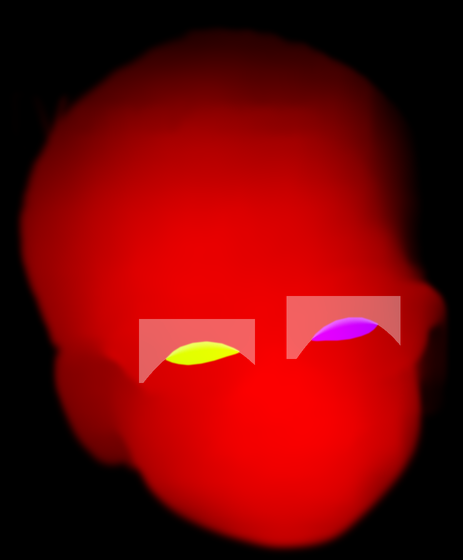
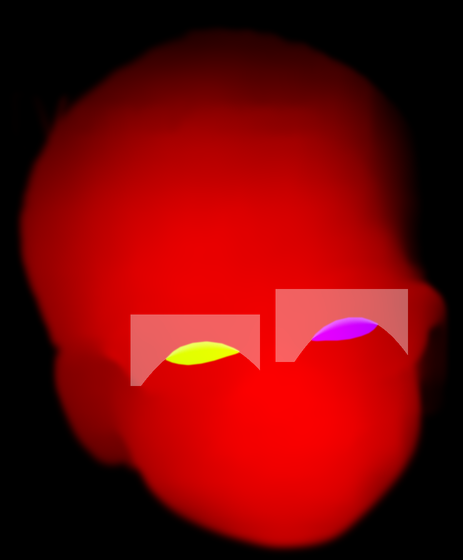
Live portrait: true-size irises and a seamless hand-over from the photo
The landmarker's iris circles were ~12% small and 3-4px off centre, so
the rebuilt eyes looked smaller than the photo's and visibly changed when
the live portrait took over. eyes.py now fits the real limbus (dark iris
to white along rays through the visible sides) and rebuilds the eye
layers from that.

The hand-over itself: the <img> loads the exact file the canvas draws
(unoptimized, so not re-encoded); textures are mipmapped under WebGL 2 so
the downscale matches; the 0.35s crossfade is gone (it blurred two
frames together); and while the eyes are in their original pose the
shader shows the photo's own eye pixels, handing over to the movable
iris within the first saccade. At the swap the live frame now differs
from the photo by about 1/255 on average, sub-pixel resampling only.

Claude-Session: https://claude.ai/code/session_011JZeWZhxMNci4YbX9DFC3o

Changed region(s): [[0.2721, 0.5161, 0.9071, 0.6982]]

diff --git a/src/app/components/portrait/live-portrait.js b/src/app/components/portrait/live-portrait.js
@@ -50,6 +50,8 @@ uniform sampler2D uBase;
 uniform sampler2D uAux;
 uniform sampler2D uIris;
 uniform sampler2D uLids;
+uniform sampler2D uPhoto;
+uniform float uRest[2];
 uniform vec2 uSize;
 uniform vec2 uHead;
 uniform vec2 uLight;
@@ -165,6 +167,12 @@ void main() {
     }
   }
 
+  // At rest the eyes are the photo's own, real iris edge and catchlight
+  // and all; the rebuilt eye takes over as soon as they move.
+  vec4 aux0 = texture2D(uAux, q / uSize);
+  float rest = aux0.g * uRest[0] + aux0.b * uRest[1];
+  if (rest > 0.0) col = mix(col, texture2D(uPhoto, q / uSize), rest);
+
   // Light: the face's own shading shifts as it turns, using the depth
   // map's slope as the surface direction. At rest this is exactly 1.
   vec2 e = 3.0 / uSize;
@@ -179,11 +187,15 @@ void main() {
   gl_FragColor = col;
 }`;
 
+/** The first-paint photo; the <img> must load this exact file, unresized. */
+export const PHOTO_SRC = "/portrait/photo.webp";
+
 const SRC = {
   base: "/portrait/base.webp",
   aux: "/portrait/aux.png",
   iris: "/portrait/iris.png",
   lids: "/portrait/lids.png",
+  photo: PHOTO_SRC,
 };
 
 const HEAD_PX = [15, 9]; // how far the nearest point travels, image pixels
@@ -219,7 +231,12 @@ function texture(gl, unit, img, data = false) {
   gl.pixelStorei(gl.UNPACK_PREMULTIPLY_ALPHA_WEBGL, !data);
   gl.pixelStorei(gl.UNPACK_COLORSPACE_CONVERSION_WEBGL, data ? gl.NONE : gl.BROWSER_DEFAULT_WEBGL);
   gl.texImage2D(gl.TEXTURE_2D, 0, gl.RGBA, gl.RGBA, gl.UNSIGNED_BYTE, img);
-  gl.texParameteri(gl.TEXTURE_2D, gl.TEXTURE_MIN_FILTER, gl.LINEAR);
+  // The portrait is drawn smaller than its texture; with mipmaps it is
+  // filtered the way the browser scales the <img> it replaces, so the swap
+  // does not change its sharpness. (WebGL 1 can't mipmap these sizes.)
+  const mip = !data && typeof WebGL2RenderingContext !== "undefined" && gl instanceof WebGL2RenderingContext;
+  if (mip) gl.generateMipmap(gl.TEXTURE_2D);
+  gl.texParameteri(gl.TEXTURE_2D, gl.TEXTURE_MIN_FILTER, mip ? gl.LINEAR_MIPMAP_LINEAR : gl.LINEAR);
   gl.texParameteri(gl.TEXTURE_2D, gl.TEXTURE_MAG_FILTER, gl.LINEAR);
   gl.texParameteri(gl.TEXTURE_2D, gl.TEXTURE_WRAP_S, gl.CLAMP_TO_EDGE);
   gl.texParameteri(gl.TEXTURE_2D, gl.TEXTURE_WRAP_T, gl.CLAMP_TO_EDGE);
@@ -235,7 +252,8 @@ export default function LivePortrait({ onReady, onHead, api, className = "" }) {
     const canvas = ref.current;
     if (!canvas) return;
     if (window.matchMedia("(prefers-reduced-motion: reduce)").matches) return;
-    const gl = canvas.getContext("webgl", { premultipliedAlpha: true, alpha: true, antialias: false });
+    const opts = { premultipliedAlpha: true, alpha: true, antialias: false };
+    const gl = canvas.getContext("webgl2", opts) || canvas.getContext("webgl", opts);
     if (!gl) return;
 
     let raf = 0;
@@ -246,7 +264,7 @@ export default function LivePortrait({ onReady, onHead, api, className = "" }) {
     const start = async () => {
       let imgs;
       try {
-        imgs = await Promise.all([loadImage(SRC.base), loadImage(SRC.aux), loadImage(SRC.iris), loadImage(SRC.lids)]);
+        imgs = await Promise.all([SRC.base, SRC.aux, SRC.iris, SRC.lids, SRC.photo].map(loadImage));
       } catch {
         return;
       }
@@ -272,7 +290,7 @@ export default function LivePortrait({ onReady, onHead, api, className = "" }) {
       gl.enableVertexAttribArray(loc);
       gl.vertexAttribPointer(loc, 2, gl.FLOAT, false, 0, 0);
 
-      ["uBase", "uAux", "uIris", "uLids"].forEach((name, i) => {
+      ["uBase", "uAux", "uIris", "uLids", "uPhoto"].forEach((name, i) => {
         texture(gl, i, imgs[i], name === "uAux");
         gl.uniform1i(gl.getUniformLocation(prog, name), i);
       });
@@ -296,6 +314,7 @@ export default function LivePortrait({ onReady, onHead, api, className = "" }) {
       const uScale = U("uScale");
       const uLid = U("uLid");
       const uRise = U("uRise");
+      const uRest = U("uRest");
 
       gl.clearColor(0, 0, 0, 0);
 
@@ -492,6 +511,7 @@ export default function LivePortrait({ onReady, onHead, api, className = "" }) {
         const scales = [];
         const lids = [];
         const rises = [];
+        const rests = [];
         if (now > st.nextBlink) startBlink(now);
         const blink = blinkAt(now);
         E.forEach((e, i) => {
@@ -499,22 +519,28 @@ export default function LivePortrait({ onReady, onHead, api, className = "" }) {
           const gx = clamp(st.eye[i].x - st.head.x * 0.35 + (Math.random() - 0.5) * tremor, -1, 1);
           const gy = clamp(st.eye[i].y - st.head.y * 0.3 + (Math.random() - 0.5) * tremor, -1, 1);
           offs.push(gx * e.maxX * 0.8, gy < 0 ? gy * e.maxUp : gy * e.maxDown);
+          // How close the eye is to its pose in the photo (tremor aside).
+          const rx = (st.eye[i].x - st.head.x * 0.35) * e.maxX * 0.8;
+          const ry = (st.eye[i].y - st.head.y * 0.3) * e.maxDown;
           // The iris turns away from view as the eye rotates.
           scales.push(1 - 0.12 * Math.abs(gx), 1 - 0.07 * Math.abs(gy));
           // Looking down, the upper lid follows the eye down a little.
           lids.push(Math.max(blink, Math.max(0, gy) * 0.22));
           rises.push(blink * 0.14);
+          rests.push(Math.exp(-(rx * rx + ry * ry) / 0.8) * (1 - clamp(Math.max(blink, Math.max(0, gy) * 0.22) * 8, 0, 1)));
         });
         gl.uniform2fv(uOff, offs);
         gl.uniform2fv(uScale, scales);
         gl.uniform1fv(uLid, lids);
         gl.uniform1fv(uRise, rises);
+        gl.uniform1fv(uRest, rests);
 
         gl.clear(gl.COLOR_BUFFER_BIT);
         gl.drawArrays(gl.TRIANGLE_STRIP, 0, 4);
         if (first) {
+          // Hand over on the next frame, once this one is on screen.
           first = false;
-          onReady?.();
+          requestAnimationFrame(() => alive && onReady?.());
         }
         raf = requestAnimationFrame(frame);
       };

diff --git a/src/app/components/Hero.jsx b/src/app/components/Hero.jsx
@@ -5,13 +5,9 @@ import Image from "next/image";
 import { ArrowUpRight } from "lucide-react";
 import MinimalNav from './layout/navbar';
 import HeroDock from './hero-dock';
-import LivePortrait from './portrait/live-portrait';
+import LivePortrait, { PHOTO_SRC } from './portrait/live-portrait';
 import Vanakkam from './portrait/vanakkam';
 
-// The portrait without its lettering ("[ Vanakamm! ]" is live text now).
-// Built from /public/heropageprofile.png by scripts/portrait, along with the
-// layers the live portrait animates.
-const PROFILE_SRC = "/portrait/photo.webp";
 
 // Thirukkural 611 (chapter 62, ஆள்வினையுடைமை / Perseverance).
 const KURAL = {
@@ -185,11 +181,14 @@ export default function Hero() {
           data-live={live}
         >
           <div className="hero-portrait-inner relative">
+            {/* The portrait without its lettering (built from heropageprofile.png
+                by scripts/portrait). Served as is, not re-encoded, so it is
+                pixel for pixel what the live portrait draws when it takes over. */}
             <Image
-              src={PROFILE_SRC}
+              src={PHOTO_SRC}
               width={926}
               height={1120}
-              sizes="(max-width: 640px) 200px, (max-width: 768px) 240px, (max-width: 1024px) 290px, 320px"
+              unoptimized
               alt="Goutham smiling in green glasses"
               priority
               draggable={false}

diff --git a/src/app/globals.css b/src/app/globals.css
@@ -295,14 +295,15 @@ video {
 .hero-portrait img,
 .hero-portrait-live {
   filter: drop-shadow(0 30px 40px rgba(0, 0, 0, 0.6));
-  transition: filter 0.5s ease, opacity 0.35s ease;
+  transition: filter 0.5s ease;
 }
 .hero-portrait:hover img,
 .hero-portrait:hover .hero-portrait-live {
   filter: drop-shadow(0 34px 48px rgba(0, 0, 0, 0.7)) brightness(1.04);
 }
-/* The live portrait sits exactly over the photo and takes over once its
-   first frame is drawn (at rest the two are identical). */
+/* The live portrait sits exactly over the photo and takes over, in one
+   frame with no fade, once its first frame is drawn: at rest the two are
+   the same pixels, so a crossfade would only blur them for a moment. */
 .hero-portrait-live {
   position: absolute;
   inset: 0;

diff --git a/scripts/portrait/eyes.py b/scripts/portrait/eyes.py
@@ -25,9 +25,44 @@ base = rgb.copy()
 meta = {}
 shades = {}
 
+def refine_iris(cx, cy, r):
+    """The landmarker's iris circle runs small and a little off centre.
+    Find the real limbus (dark iris to bright white) along rays through the
+    visible sides of the eye and fit a circle to those points."""
+    pts = []
+    for ang in list(range(-35, 36, 5)) + list(range(145, 216, 5)):
+        a = np.radians(ang)
+        ts = np.arange(r * 0.6, r * 1.7, 0.25)
+        xs = cx + np.cos(a) * ts
+        ys = cy + np.sin(a) * ts
+        prof = cv2.remap(lum, xs.astype(np.float32)[None], ys.astype(np.float32)[None], cv2.INTER_LINEAR)[0]
+        inner = np.median(prof[ts < r * 0.85])
+        outer = np.percentile(prof, 90)
+        if outer - inner < 25:
+            continue  # this ray runs into lid or lashes, not white
+        mid = (inner + outer) / 2
+        hit = np.nonzero((prof > mid) & (ts > r * 0.85))[0]
+        if len(hit):
+            t = ts[hit[0]]
+            pts.append((cx + np.cos(a) * t, cy + np.sin(a) * t))
+    if len(pts) < 6:
+        return cx, cy, r
+    P = np.array(pts)
+    # Algebraic circle fit: x^2 + y^2 + Dx + Ey + F = 0.
+    A = np.c_[P[:, 0], P[:, 1], np.ones(len(P))]
+    b = -(P[:, 0] ** 2 + P[:, 1] ** 2)
+    D, E, F = np.linalg.lstsq(A, b, rcond=None)[0]
+    nx, ny = -D / 2, -E / 2
+    nr = np.sqrt(nx * nx + ny * ny - F)
+    # Trust it only if it is a modest correction.
+    if abs(nx - cx) > r * 0.3 or abs(ny - cy) > r * 0.3 or not (r * 0.9 < nr < r * 1.4):
+        return cx, cy, r
+    return float(nx), float(ny), float(nr)
+
+
 for name, e in lm["eyes"].items():
-    cx, cy = e["center"]
-    r = e["radius"]
+    cx, cy, r = refine_iris(*e["center"], e["radius"])
+    print(name, "iris", [round(v, 2) for v in e["center"]], round(e["radius"], 2), "->", round(cx, 2), round(cy, 2), round(r, 2))
     poly = np.array(e["contour"], np.float32)
 
     # Aperture: the landmark outline, grown a touch so the lid line itself
